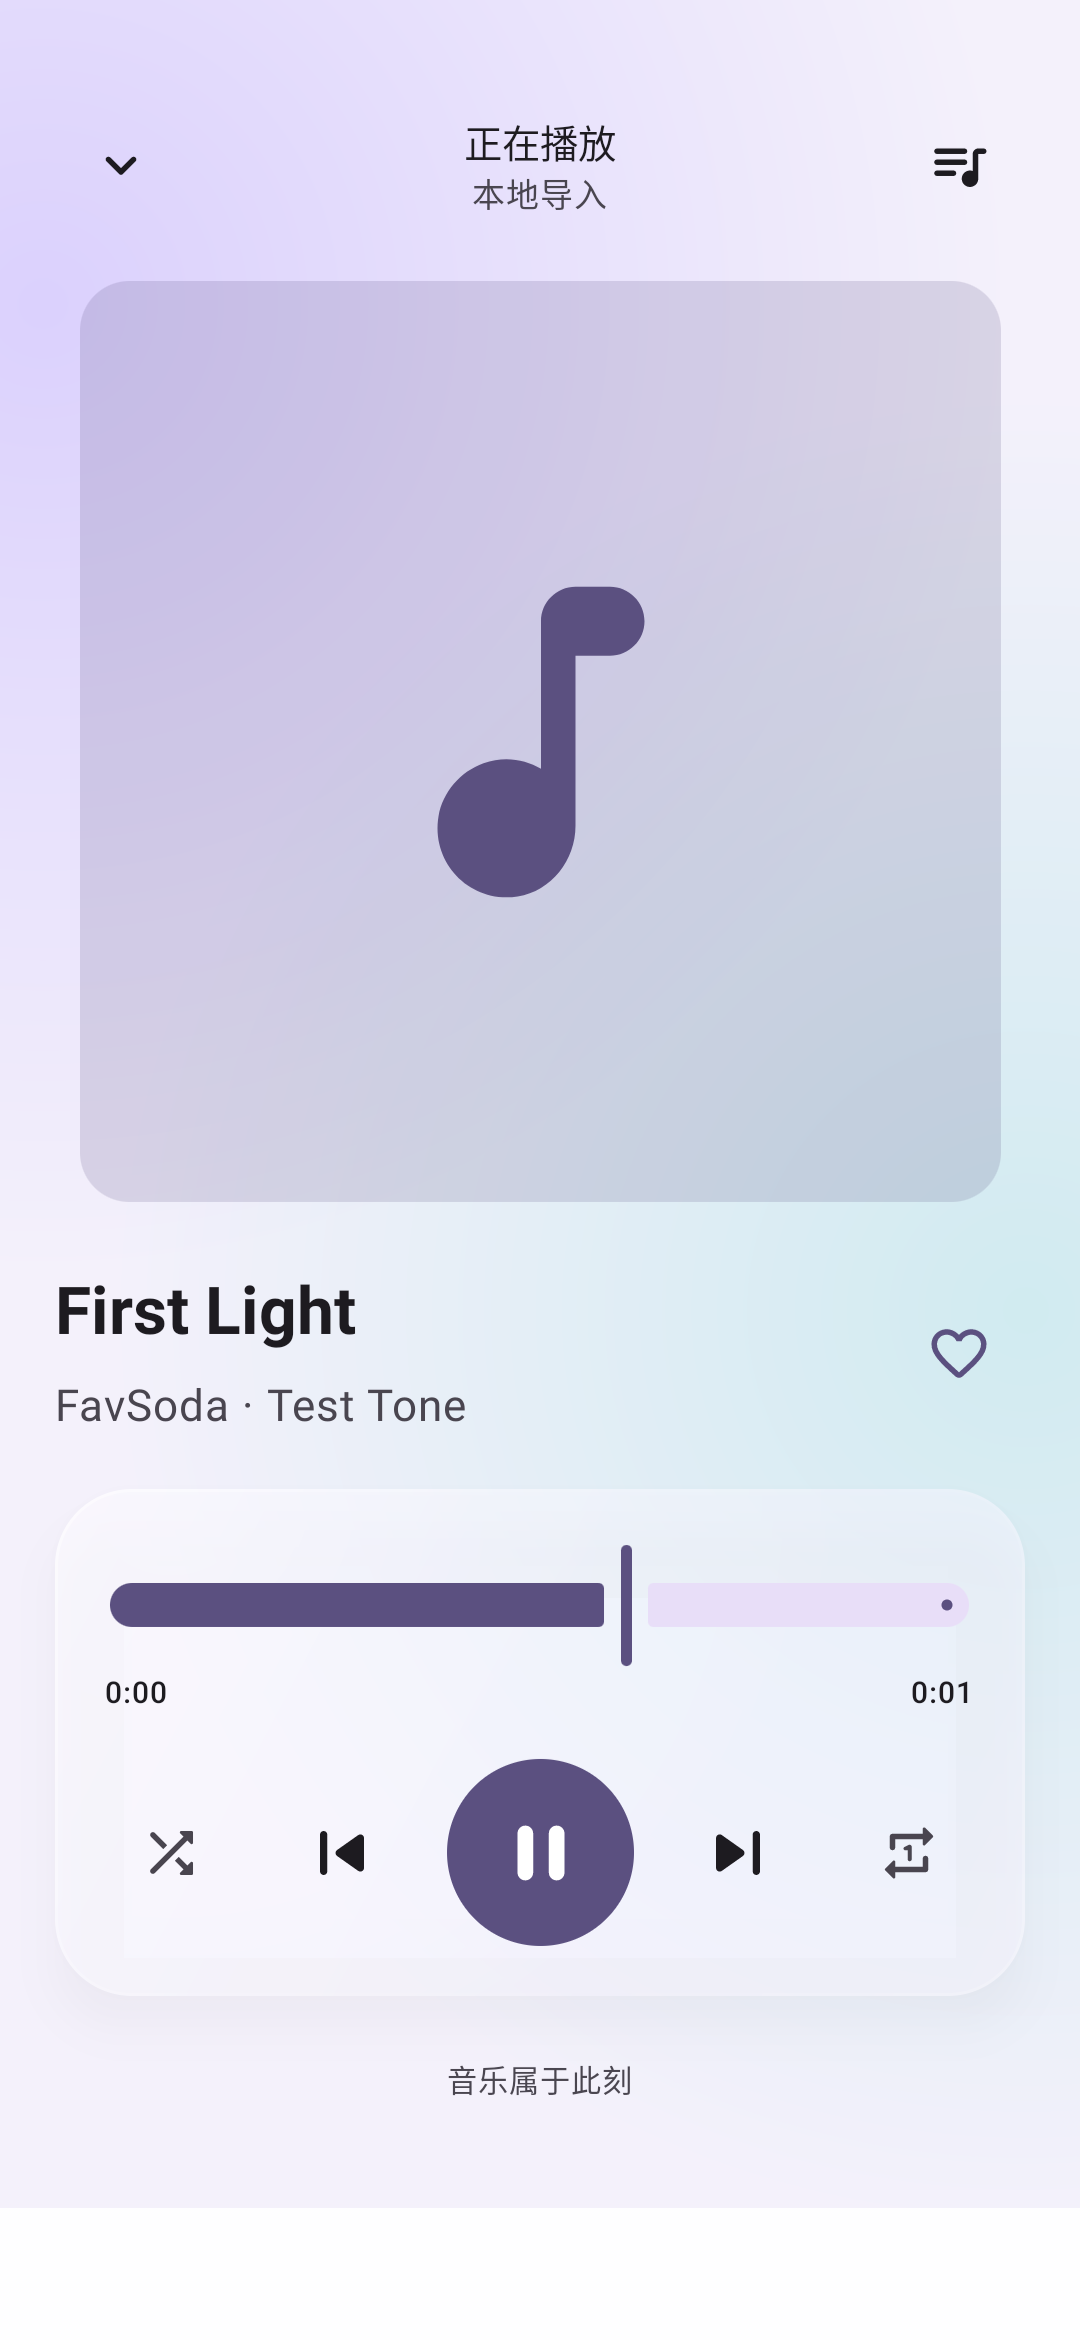
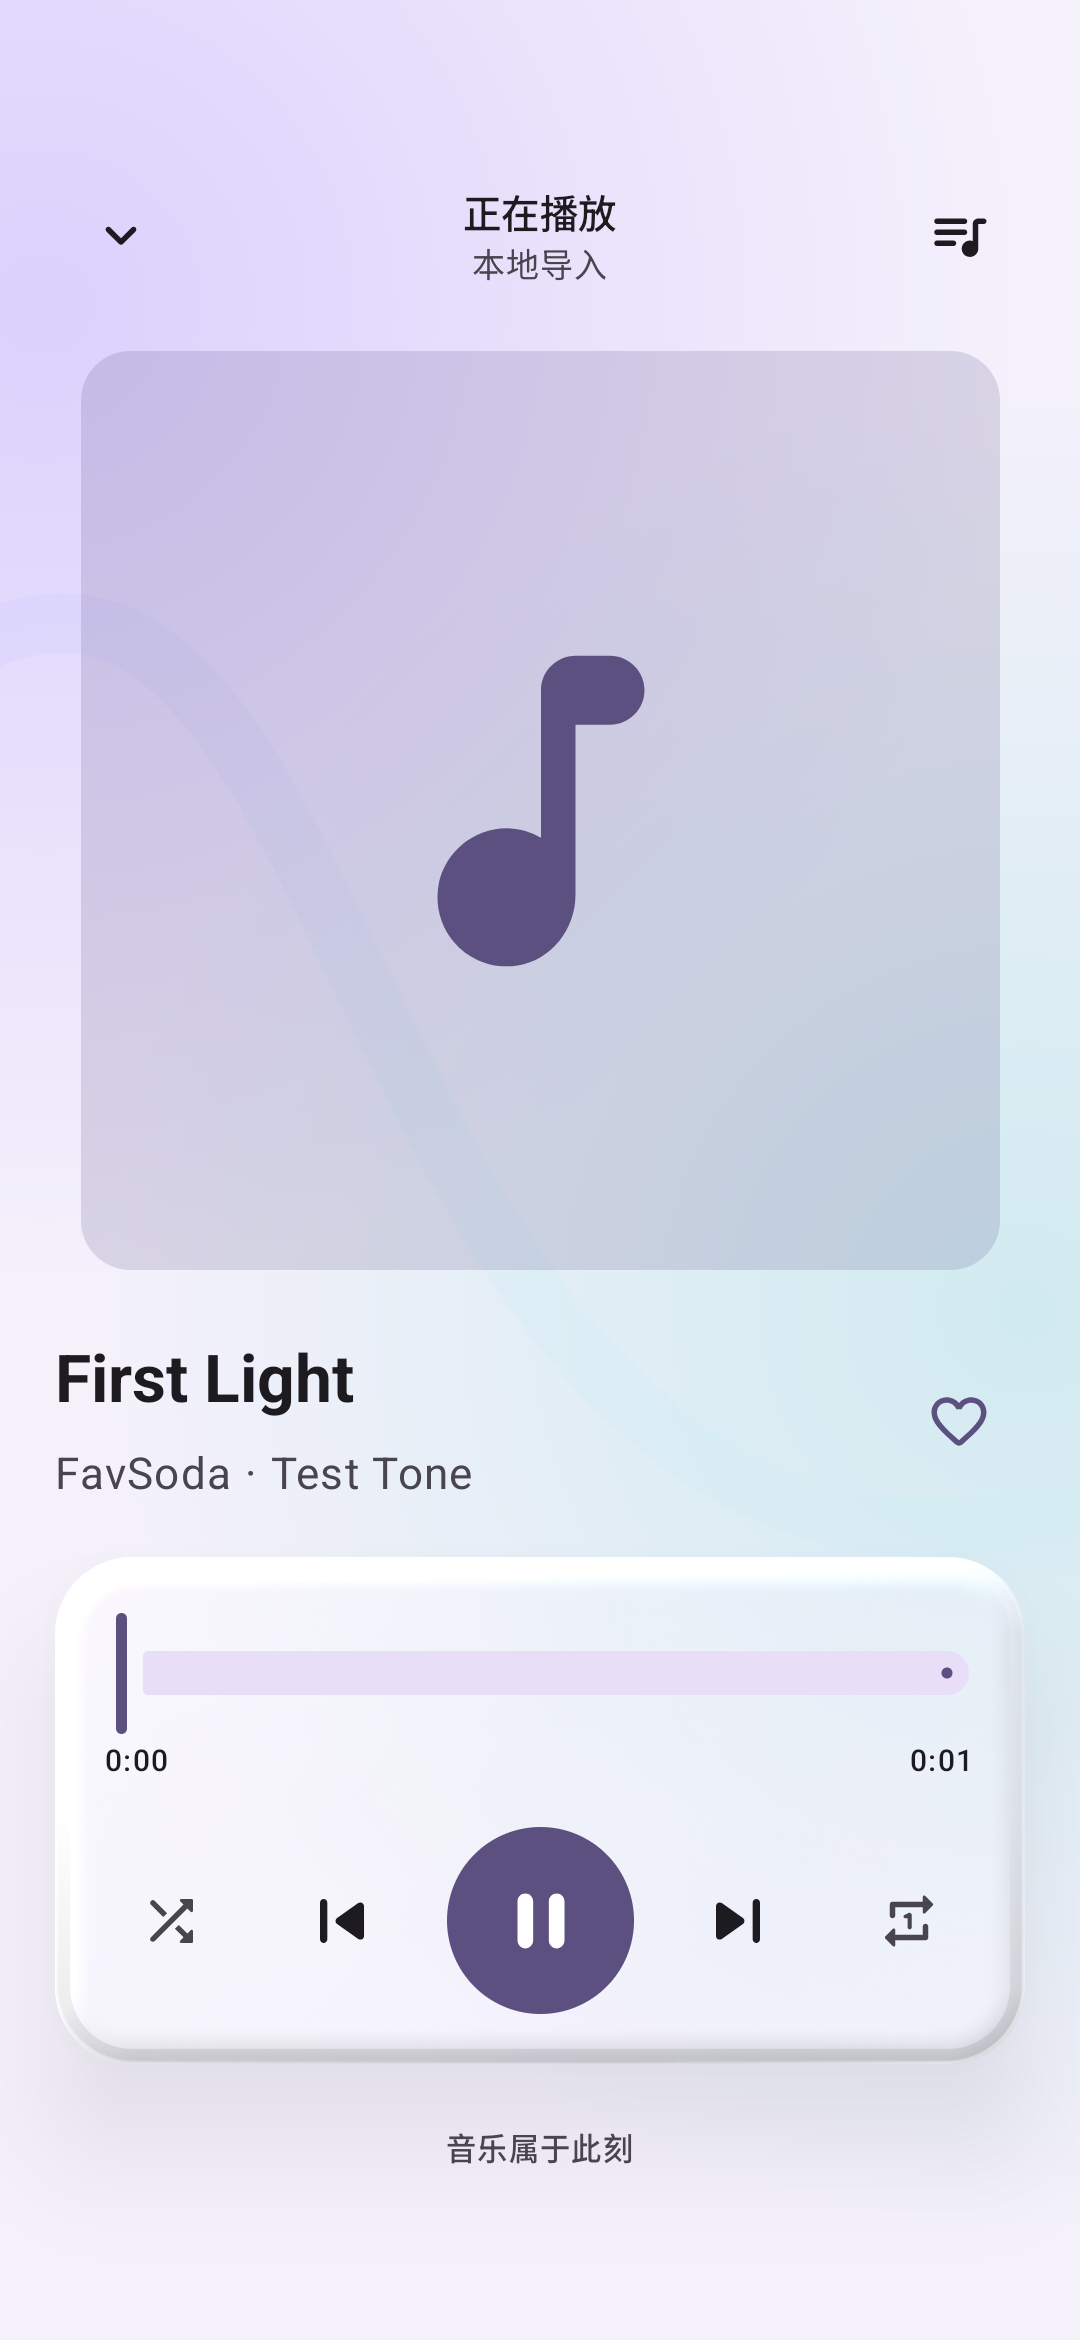
docs: publish dimensional glass screenshots and verification [skip ci]

diff --git a/docs/TESTING.md b/docs/TESTING.md
@@ -75,3 +75,13 @@
 - 新版导入与歌曲菜单的设备截图已更新到 README，截图只使用测试素材。
 - 发布 APK 显示名称 FavSoda，包名 `io.github.glassbeat`、versionCode 14、版本 1.0.4；签名与旧版本一致。
 - FavSoda 与 GlassBeat 文件名的发布 APK 内容相同；旧文件名用于兼容已有更新器和稳定版清单。
+
+
+## 1.0.5 立体玻璃与导航验证
+
+- 26 项 JVM 测试、Debug/Release 静态检查与签名构建通过。
+- Android 10 / Android 15 各 17 项设备测试通过：[CI](https://github.com/winner798/GlassBeat/actions/runs/42014108946)。
+- Android 15 实际完成 RuntimeShader 的编译及绘制；Android 10 验证未调用新系统 API 的兼容材质。
+- 导航测试验证按压预览不切换页面、取消不触发操作、完成点击只切换一次；通过截图像素差异确认反馈覆盖面积明显，另验证浅色与低性能模式。
+- 实际音乐库、外观和播放器截图已更新。参考仓库、研究快照与实现分层见 [GLASS.md](GLASS.md)。
+- APK 版本 1.0.5 / versionCode 15，包名和签名保持升级兼容。

diff --git a/README.md b/README.md
@@ -4,6 +4,8 @@
 
 开源、离线优先、可自定义的 Android 玻璃风格音乐播放器。
 
+1.0.5：弹性滑动的立体导航、按压扩张与图标上浮；全局增加玻璃倒角、内阴影和反射，Android 13+ 支持背景边缘折射。[实现与参考源码](docs/GLASS.md)。
+
 **Kotlin · Jetpack Compose · Media3 · Room · DataStore · Haze**
 
 <p>
@@ -11,10 +13,13 @@
   <img src="docs/screenshots/themes.png" width="230" alt="玻璃主题编辑器" />
   <img src="docs/screenshots/player.png" width="230" alt="浅色全屏播放器" />
 </p>
+<details>
+<summary>二级界面布局（1.0.4）</summary>
 <p>
   <img src="docs/screenshots/import-sheet.png" width="230" alt="玻璃导入面板" />
   <img src="docs/screenshots/song-menu.png" width="230" alt="分组歌曲操作" />
 </p>
+</details>
 
 ## 功能
 
